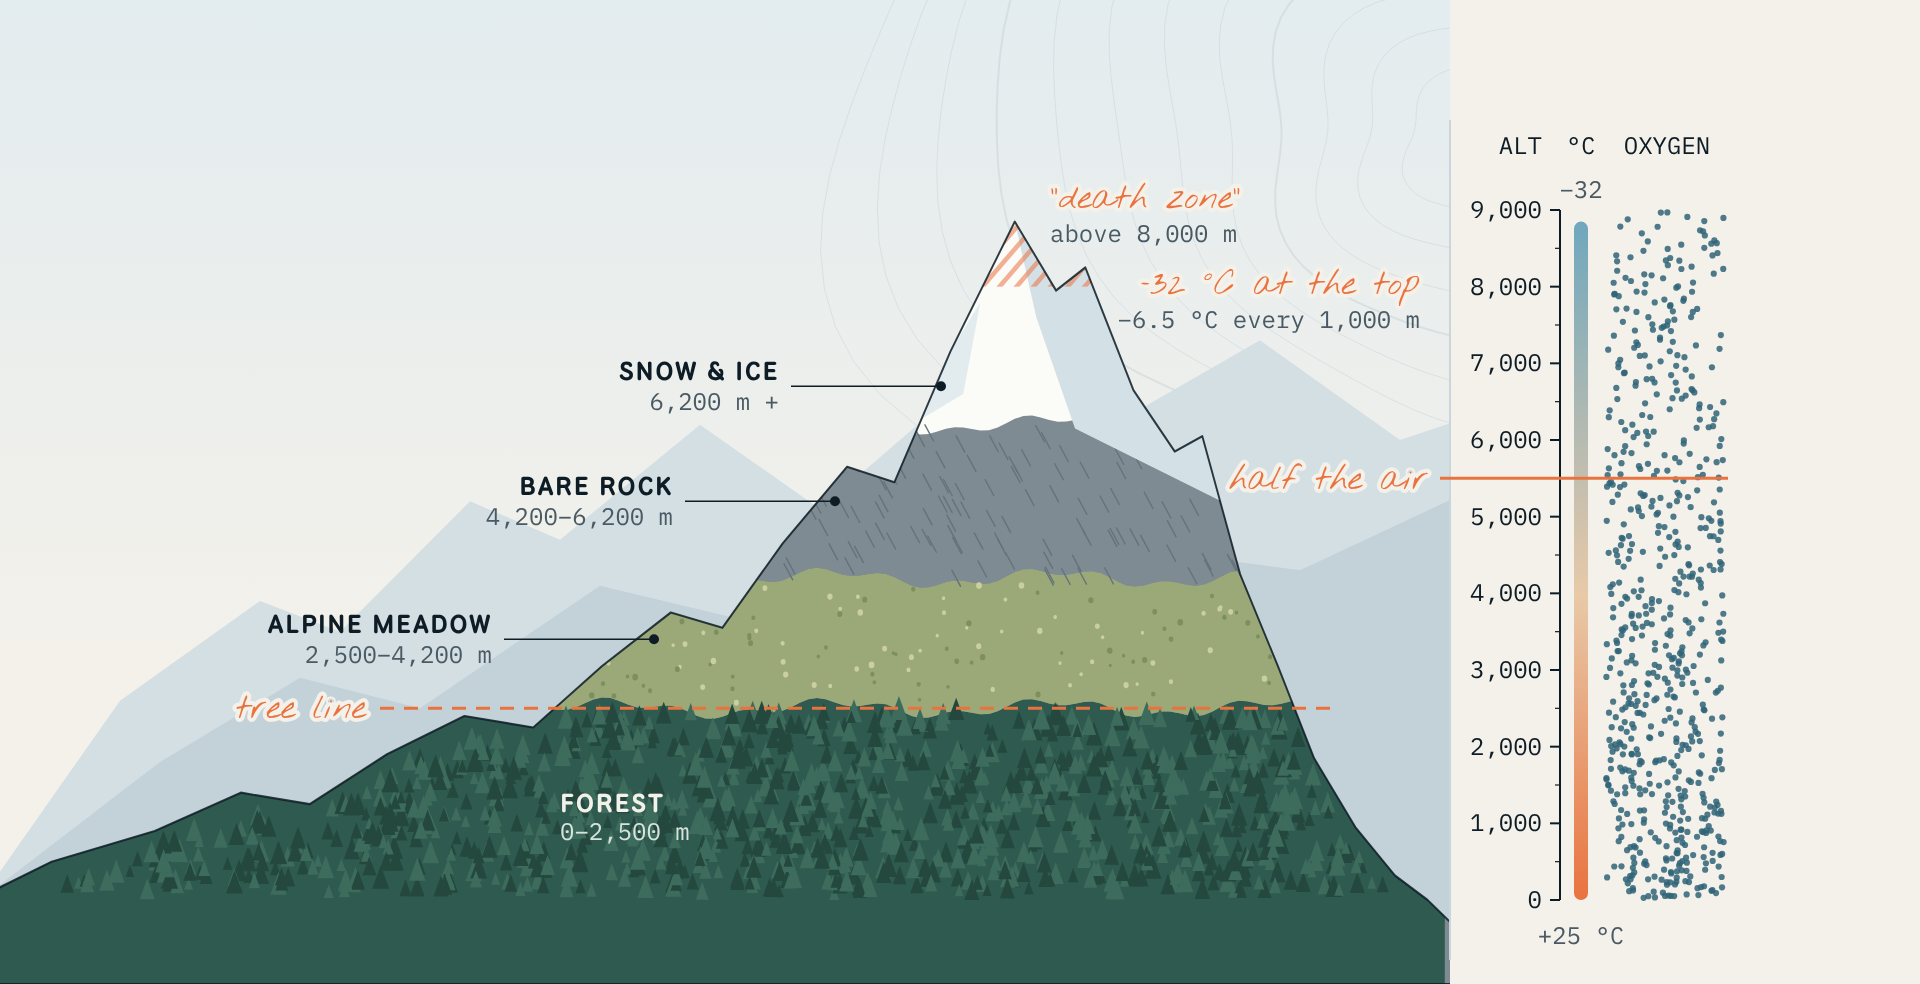
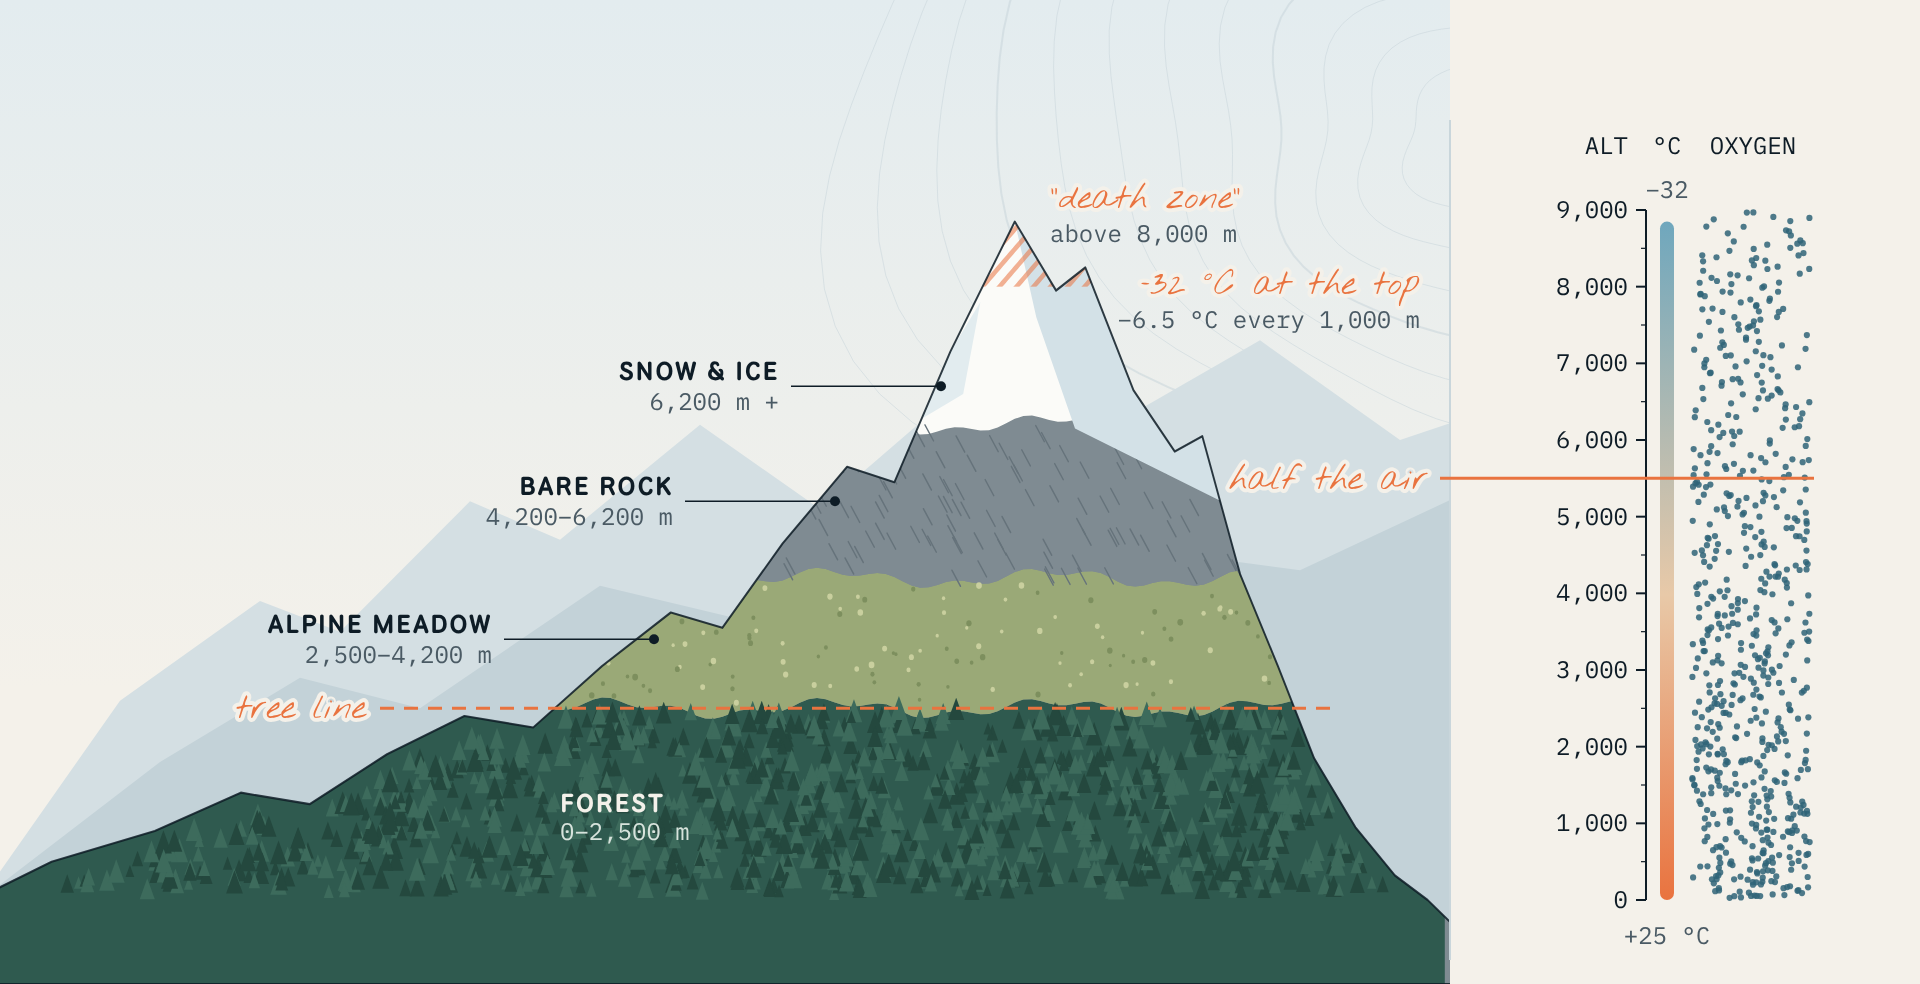
Center slide content vertically and center the altitude gauge
Claude-Session: https://claude.ai/code/session_01SRscrx7gRJ3TS5WmVXhRDc

Changed region(s): [[0.7812, 0.1829, 0.9375, 0.9146], [0.7812, 0.122, 0.9375, 0.1524], [0.8125, 0.9451, 0.875, 0.9756]]

diff --git a/deck/project/slides/where.html b/deck/project/slides/where.html
@@ -1,13 +1,13 @@
-<section id="where" data-transition="fade" style="background:#0e1c26;color:#eef2f1;font-family:'Barlow', Arial, sans-serif;padding:144px 192px 176px;display:flex;flex-direction:column;gap:12px">
+<section id="where" data-transition="fade" style="background:#0e1c26;color:#eef2f1;font-family:'Barlow', Arial, sans-serif;padding:112px 192px 208px;display:flex;flex-direction:column;gap:12px">
 <img src="/_blob/3e8221d59b24e82d4a2f260c20924182" alt="" style="position:absolute;left:0;top:0;width:1920px;height:984px;object-fit:cover;opacity:0.08">
-<img src="/_blob/3cc009201de9a105b8d38afb69dd0c79" alt="Snowy Himalayan peaks under a blue sky" style="position:absolute;left:192px;top:312px;width:366px;height:592px;object-fit:cover;border-radius:18px">
-<img src="/_blob/9dcb544614ce932dabfe6586796116ce" alt="Snowy peaks above a turquoise lake in the Cordillera Huayhuash, Peru" style="position:absolute;left:582px;top:312px;width:366px;height:592px;object-fit:cover;border-radius:18px">
-<img src="/_blob/86c8a2be26c6944d54eb79cfa28b9634" alt="Green alpine meadow, lake and rocky peaks in the Swiss Alps" style="position:absolute;left:972px;top:312px;width:366px;height:592px;object-fit:cover;border-radius:18px">
-<img src="/_blob/06269918b762f7f78946eb62354a13b3" alt="Moraine Lake reflecting rocky peaks, Canadian Rockies" style="position:absolute;left:1362px;top:312px;width:366px;height:592px;object-fit:cover;border-radius:18px">
-<div style="position:absolute;left:192px;top:312px;width:366px;height:592px;border-radius:18px;background:linear-gradient(180deg, rgba(14,28,38,0) 18%, rgba(14,28,38,0.8) 48%, rgba(14,28,38,0.97) 70%)"></div>
-<div style="position:absolute;left:582px;top:312px;width:366px;height:592px;border-radius:18px;background:linear-gradient(180deg, rgba(14,28,38,0) 18%, rgba(14,28,38,0.8) 48%, rgba(14,28,38,0.97) 70%)"></div>
-<div style="position:absolute;left:972px;top:312px;width:366px;height:592px;border-radius:18px;background:linear-gradient(180deg, rgba(14,28,38,0) 18%, rgba(14,28,38,0.8) 48%, rgba(14,28,38,0.97) 70%)"></div>
-<div style="position:absolute;left:1362px;top:312px;width:366px;height:592px;border-radius:18px;background:linear-gradient(180deg, rgba(14,28,38,0) 18%, rgba(14,28,38,0.8) 48%, rgba(14,28,38,0.97) 70%)"></div>
+<img src="/_blob/3cc009201de9a105b8d38afb69dd0c79" alt="Snowy Himalayan peaks under a blue sky" style="position:absolute;left:192px;top:280px;width:366px;height:592px;object-fit:cover;border-radius:18px">
+<img src="/_blob/9dcb544614ce932dabfe6586796116ce" alt="Snowy peaks above a turquoise lake in the Cordillera Huayhuash, Peru" style="position:absolute;left:582px;top:280px;width:366px;height:592px;object-fit:cover;border-radius:18px">
+<img src="/_blob/86c8a2be26c6944d54eb79cfa28b9634" alt="Green alpine meadow, lake and rocky peaks in the Swiss Alps" style="position:absolute;left:972px;top:280px;width:366px;height:592px;object-fit:cover;border-radius:18px">
+<img src="/_blob/06269918b762f7f78946eb62354a13b3" alt="Moraine Lake reflecting rocky peaks, Canadian Rockies" style="position:absolute;left:1362px;top:280px;width:366px;height:592px;object-fit:cover;border-radius:18px">
+<div style="position:absolute;left:192px;top:280px;width:366px;height:592px;border-radius:18px;background:linear-gradient(180deg, rgba(14,28,38,0) 18%, rgba(14,28,38,0.8) 48%, rgba(14,28,38,0.97) 70%)"></div>
+<div style="position:absolute;left:582px;top:280px;width:366px;height:592px;border-radius:18px;background:linear-gradient(180deg, rgba(14,28,38,0) 18%, rgba(14,28,38,0.8) 48%, rgba(14,28,38,0.97) 70%)"></div>
+<div style="position:absolute;left:972px;top:280px;width:366px;height:592px;border-radius:18px;background:linear-gradient(180deg, rgba(14,28,38,0) 18%, rgba(14,28,38,0.8) 48%, rgba(14,28,38,0.97) 70%)"></div>
+<div style="position:absolute;left:1362px;top:280px;width:366px;height:592px;border-radius:18px;background:linear-gradient(180deg, rgba(14,28,38,0) 18%, rgba(14,28,38,0.8) 48%, rgba(14,28,38,0.97) 70%)"></div>
 <p style="font-family:'IBM Plex Mono', 'Courier New', monospace;font-size:24px;letter-spacing:4px;color:#e9733f;text-transform:uppercase">Where</p>
 <h2 style="font-family:'National Park', 'Arial Narrow', sans-serif;font-size:72px;font-weight:700;line-height:1.08;text-transform:uppercase">Four great mountain ranges</h2>
 <div style="flex:1;display:flex;gap:24px;padding:24px 0px 0px 0px">

diff --git a/deck/design/art/habitat.html b/deck/design/art/habitat.html
@@ -70,22 +70,22 @@ const fy=Y(1150);t(560,fy,'Forest','lbl','#f4f1ea');t(560,fy+28,'0–2,500 m','m
 t(1050,Y(8849)-14,'“death zone”','hand',GLOW);t(1050,Y(8849)+20,'above 8,000 m','mono','#4a5a64');
 
 // gauges: altitude axis, temperature, oxygen dots
-const ax=1560;
+const ax=1646;
 el('line',{x1:ax,y1:Y(0),x2:ax,y2:Y(9000),stroke:INK,['stroke-width']:2});
 for(let a=0;a<=9000;a+=1000){const y=Y(a);el('line',{x1:ax-10,y1:y,x2:ax,y2:y,stroke:INK,['stroke-width']:2});t(ax-18,y+8,a.toLocaleString('en-US'),'mono',INK,'end')}
 for(let a=500;a<9000;a+=1000){const y=Y(a);el('line',{x1:ax-5,y1:y,x2:ax,y2:y,stroke:INK,['stroke-width']:1.2})}
 const tg=el('linearGradient',{id:'tg',x1:0,y1:1,x2:0,y2:0},defs);el('stop',{offset:'0',['stop-color']:GLOW},tg);el('stop',{offset:'.45',['stop-color']:'#e8c9a8'},tg);el('stop',{offset:'1',['stop-color']:'#6fa7bd'},tg);
-el('rect',{x:1574,y:Y(8849),width:14,height:Y(0)-Y(8849),rx:7,fill:'url(#tg)'});
+el('rect',{x:1660,y:Y(8849),width:14,height:Y(0)-Y(8849),rx:7,fill:'url(#tg)'});
 // oxygen: density of dots follows air pressure
-for(let a=0;a<9000;a+=60){const p=Math.exp(-a/8300),n=Math.round(p*7);for(let k=0;k<n;k++){const x=1606+rnd()*118,y=Y(a)-rnd()*60*(690/9000)*1;el('circle',{cx:x,cy:y,r:3.1,fill:'#2f6478',opacity:.85})}}
-t(1581,Y(9000)-56,'°C','mono',INK,'middle');t(1667,Y(9000)-56,'OXYGEN','mono',INK,'middle');t(1542,Y(9000)-56,'ALT','mono',INK,'end');
-t(1581,Y(0)+44,'+25 °C','mono','#4a5a64','middle');
+for(let a=0;a<9000;a+=60){const p=Math.exp(-a/8300),n=Math.round(p*7);for(let k=0;k<n;k++){const x=1692+rnd()*118,y=Y(a)-rnd()*60*(690/9000)*1;el('circle',{cx:x,cy:y,r:3.1,fill:'#2f6478',opacity:.85})}}
+t(1667,Y(9000)-56,'°C','mono',INK,'middle');t(1753,Y(9000)-56,'OXYGEN','mono',INK,'middle');t(1628,Y(9000)-56,'ALT','mono',INK,'end');
+t(1667,Y(0)+44,'+25 °C','mono','#4a5a64','middle');
 // handwritten readings
 t(1420,Y(7900),'−32 °C at the top','hand',GLOW,'end');
 t(1420,Y(7900)+34,'−6.5 °C every 1,000 m','mono','#4a5a64','end');
-t(1581,Y(8849)-24,'−32','mono','#4a5a64','middle');
+t(1667,Y(8849)-24,'−32','mono','#4a5a64','middle');
 // half oxygen marker
-const yh=Y(5500);el('line',{x1:1440,y1:yh,x2:1728,y2:yh,stroke:GLOW,['stroke-width']:3});
+const yh=Y(5500);el('line',{x1:1440,y1:yh,x2:1814,y2:yh,stroke:GLOW,['stroke-width']:3});
 t(1428,yh+11,'half the air','hand',GLOW,'end');
 </script>
 </body></html>

diff --git a/deck/project/slides/threats.html b/deck/project/slides/threats.html
@@ -1,10 +1,10 @@
-<section id="threats" data-transition="fade" style="background:#0e1c26;color:#eef2f1;font-family:'Barlow', Arial, sans-serif;padding:144px 192px 176px;display:flex;flex-direction:column;gap:12px">
+<section id="threats" data-transition="fade" style="background:#0e1c26;color:#eef2f1;font-family:'Barlow', Arial, sans-serif;padding:112px 192px 208px;display:flex;flex-direction:column;justify-content:center;gap:12px">
 <img src="/_blob/945b359164c9443d8336dda2beb0b1be" alt="The grey, rocky Ngozumpa Glacier next to the turquoise Gokyo Lake, Nepal" style="position:absolute;left:0;top:0;width:1920px;height:984px;object-fit:cover">
 <div style="position:absolute;left:0;top:0;width:1920px;height:984px;background:linear-gradient(90deg, rgba(14,28,38,0.97) 0%, rgba(14,28,38,0.93) 46%, rgba(14,28,38,0.35) 72%, rgba(14,28,38,0.1) 100%)"></div>
-<div style="width:808px;flex:1;display:flex;flex-direction:column;gap:12px">
+<div style="width:808px;display:flex;flex-direction:column;gap:12px">
 <p style="font-family:'IBM Plex Mono', 'Courier New', monospace;font-size:24px;letter-spacing:4px;color:#e9733f;text-transform:uppercase">Threats</p>
 <h2 style="font-family:'National Park', 'Arial Narrow', sans-serif;font-size:72px;font-weight:700;line-height:1.05;text-transform:uppercase">Why are they in danger?</h2>
-<div style="flex:1;display:flex;flex-direction:column;justify-content:center;gap:28px">
+<div style="display:flex;flex-direction:column;gap:28px;padding:28px 0px 0px 0px">
 <div style="display:flex;gap:24px">
 <p style="width:52px;font-family:'IBM Plex Mono', 'Courier New', monospace;font-size:24px;line-height:1.7;color:#e9733f">01</p>
 <div style="flex:1;display:flex;flex-direction:column;gap:4px">

diff --git a/deck/project/slides/habitat.html b/deck/project/slides/habitat.html
@@ -1,5 +1,5 @@
-<section id="habitat" data-transition="fade" style="background:#f4f1ea;color:#0e1c26;font-family:'Barlow', Arial, sans-serif;padding:144px 192px 176px;display:flex;flex-direction:column;gap:12px">
-<img src="/_blob/ae60d2ef522d94b2385d24fcaf0ab8fc" alt="Illustrated mountain cut into zones: forest up to 2,500 m, alpine meadow up to 4,200 m, bare rock up to 6,200 m and snow and ice above. A scale on the right shows the temperature falling from +25 °C to −32 °C and the dots of oxygen thinning out, with half the air left at 5,500 m." style="position:absolute;left:0;top:0;width:1920px;height:984px;object-fit:cover">
+<section id="habitat" data-transition="fade" style="background:#f4f1ea;color:#0e1c26;font-family:'Barlow', Arial, sans-serif;padding:112px 192px 208px;display:flex;flex-direction:column;gap:12px">
+<img src="/_blob/07ca1bd5c8e2e8c35c0c231b184f89a5" alt="Illustrated mountain cut into zones: forest up to 2,500 m, alpine meadow up to 4,200 m, bare rock up to 6,200 m and snow and ice above. A scale on the right shows the temperature falling from +25 °C to −32 °C and the dots of oxygen thinning out, with half the air left at 5,500 m." style="position:absolute;left:0;top:0;width:1920px;height:984px;object-fit:cover">
 <div style="width:760px;display:flex;flex-direction:column;gap:12px">
 <p style="font-family:'IBM Plex Mono', 'Courier New', monospace;font-size:24px;letter-spacing:4px;color:#b4501f;text-transform:uppercase">The habitat</p>
 <h2 style="font-family:'National Park', 'Arial Narrow', sans-serif;font-size:72px;font-weight:700;line-height:1.08;text-transform:uppercase">Life gets harder as you climb</h2>

diff --git a/deck/project/slides/foodchain.html b/deck/project/slides/foodchain.html
@@ -1,6 +1,6 @@
-<section id="foodchain" data-transition="fade" style="background:#f4f1ea;color:#0e1c26;font-family:'Barlow', Arial, sans-serif;padding:144px 192px 176px;display:flex;flex-direction:row;gap:12px">
+<section id="foodchain" data-transition="fade" style="background:#f4f1ea;color:#0e1c26;font-family:'Barlow', Arial, sans-serif;padding:112px 192px 208px;display:flex;flex-direction:row;gap:12px">
 <img src="/_blob/1b050502579447b7cb4673e2200c2d8f" alt="A snow leopard on its kill in the snow" style="position:absolute;left:0;top:0;width:820px;height:984px;object-fit:cover">
-<img src="/_blob/67f8f7ad596cc9259e8a0dc1391a88fd" alt="A food pyramid drawn as a mountain: plants at the wide base, herbivores in the middle and a few predators at the top. A dotted arrow shows scavengers like condors and vultures taking the leftovers back to the soil." style="position:absolute;left:900px;top:300px;width:828px;height:600px;object-fit:contain" data-build-in="fade">
+<img src="/_blob/67f8f7ad596cc9259e8a0dc1391a88fd" alt="A food pyramid drawn as a mountain: plants at the wide base, herbivores in the middle and a few predators at the top. A dotted arrow shows scavengers like condors and vultures taking the leftovers back to the soil." style="position:absolute;left:900px;top:268px;width:828px;height:600px;object-fit:contain" data-build-in="fade">
 <div style="position:absolute;left:0;top:704px;width:820px;height:280px;background:linear-gradient(180deg, rgba(14,28,38,0) 0%, rgba(14,28,38,0.8) 100%)"></div>
 <div style="width:708px"></div>
 <div style="flex:1;display:flex;flex-direction:column;gap:12px">

diff --git a/deck/project/slides/condor.html b/deck/project/slides/condor.html
@@ -1,4 +1,4 @@
-<section id="condor" data-transition="fade" style="background:#f4f1ea;color:#0e1c26;font-family:'Barlow', Arial, sans-serif;padding:144px 192px 176px;display:flex;flex-direction:column;gap:12px">
+<section id="condor" data-transition="fade" style="background:#f4f1ea;color:#0e1c26;font-family:'Barlow', Arial, sans-serif;padding:112px 192px 208px;display:flex;flex-direction:column;gap:12px">
 <img src="/_blob/d78d256c9588d55624a38fbf82c518d3" alt="An Andean condor with its wings spread on a snowy rock. A ruler above it marks a wingspan of up to 3.3 m; notes point to its bald head and sharp eyes and to its giant wings. Below: nature’s clean-up crew, it eats carrion (dead animals), which helps stop diseases." style="position:absolute;left:0;top:0;width:1920px;height:984px;object-fit:cover">
 <div style="width:400px;display:flex;flex-direction:column;gap:12px">
 <p style="font-family:'IBM Plex Mono', 'Courier New', monospace;font-size:24px;letter-spacing:4px;color:#b4501f;text-transform:uppercase">Animal 02</p>

diff --git a/deck/project/slides/thanks.html b/deck/project/slides/thanks.html
@@ -1,4 +1,4 @@
-<section id="thanks" data-transition="fade" style="background:#0e1c26;color:#eef2f1;font-family:'Barlow', Arial, sans-serif;padding:144px 192px 176px;display:flex;flex-direction:column;justify-content:end;gap:24px">
+<section id="thanks" data-transition="fade" style="background:#0e1c26;color:#eef2f1;font-family:'Barlow', Arial, sans-serif;padding:112px 192px 208px;display:flex;flex-direction:column;justify-content:end;gap:24px">
 <img src="/_blob/ff3db82f3b3429fe987ed849fda63274" alt="Mount Fitz Roy glowing orange at sunset above a lake, Patagonia" style="position:absolute;left:0;top:0;width:1920px;height:984px;object-fit:cover">
 <div style="position:absolute;left:0;top:0;width:1920px;height:984px;background:linear-gradient(180deg, rgba(14,28,38,0.05) 20%, rgba(14,28,38,0.78) 52%, #0e1c26 84%)"></div>
 <img src="/_blob/3e8221d59b24e82d4a2f260c20924182" alt="" style="position:absolute;left:0;top:0;width:1920px;height:984px;object-fit:cover;opacity:0.1">

diff --git a/deck/project/slides/cover.html b/deck/project/slides/cover.html
@@ -1,4 +1,4 @@
-<section id="cover" data-transition="fade" style="background:#0e1c26;color:#eef2f1;font-family:'Barlow', Arial, sans-serif;padding:144px 192px 176px;display:flex;flex-direction:column;justify-content:end;gap:20px">
+<section id="cover" data-transition="fade" style="background:#0e1c26;color:#eef2f1;font-family:'Barlow', Arial, sans-serif;padding:112px 192px 208px;display:flex;flex-direction:column;justify-content:end;gap:20px">
 <img src="/_blob/cf6575bcf1922b8ed47f60693612e22f" alt="Machapuchare peak glowing pink at sunrise, Himalayas, Nepal" style="position:absolute;left:0;top:0;width:1920px;height:984px;object-fit:cover">
 <div style="position:absolute;left:0;top:0;width:1920px;height:984px;background:linear-gradient(180deg, rgba(14,28,38,0) 32%, rgba(14,28,38,0.72) 62%, #0e1c26 100%)"></div>
 <img src="/_blob/3e8221d59b24e82d4a2f260c20924182" alt="" style="position:absolute;left:0;top:0;width:1920px;height:984px;object-fit:cover;opacity:0.1">

diff --git a/deck/project/slides/snowleopard.html b/deck/project/slides/snowleopard.html
@@ -1,4 +1,4 @@
-<section id="snowleopard" data-transition="fade" style="background:#0e1c26;color:#eef2f1;font-family:'Barlow', Arial, sans-serif;padding:144px 192px 176px;display:flex;flex-direction:column;gap:12px">
+<section id="snowleopard" data-transition="fade" style="background:#0e1c26;color:#eef2f1;font-family:'Barlow', Arial, sans-serif;padding:112px 192px 208px;display:flex;flex-direction:column;gap:12px">
 <img src="/_blob/4d00ec4dc3f89054b33be22092c7c423" alt="A snow leopard on a rock with five labelled adaptations: big nose and lungs, thick fur up to 12 cm, a spotted grey coat for camouflage, a tail about 1 m long, and wide snowshoe paws." style="position:absolute;left:0;top:0;width:1920px;height:984px;object-fit:cover">
 <div style="width:400px;display:flex;flex-direction:column;gap:12px">
 <p style="font-family:'IBM Plex Mono', 'Courier New', monospace;font-size:24px;letter-spacing:4px;color:#e9733f;text-transform:uppercase">Animal 01</p>

diff --git a/deck/project/slides/summit.html b/deck/project/slides/summit.html
@@ -1,4 +1,4 @@
-<section id="summit" data-transition="fade" style="background:#0e1c26;color:#eef2f1;font-family:'Barlow', Arial, sans-serif;padding:144px 192px 176px;display:flex;flex-direction:column;justify-content:space-between;gap:16px">
+<section id="summit" data-transition="fade" style="background:#0e1c26;color:#eef2f1;font-family:'Barlow', Arial, sans-serif;padding:112px 192px 208px;display:flex;flex-direction:column;justify-content:space-between;gap:16px">
 <img src="/_blob/d2769f4fbda0331ca64ea572b99a6d91" alt="An Andean condor flying past the icy spires of Cerro Torre, Patagonia" style="position:absolute;left:0;top:0;width:1920px;height:984px;object-fit:cover">
 <div style="position:absolute;left:0;top:0;width:1920px;height:984px;background:linear-gradient(180deg, rgba(14,28,38,0.88) 0%, rgba(14,28,38,0.3) 30%, rgba(14,28,38,0.2) 46%, rgba(14,28,38,0.9) 66%, #0e1c26 100%)"></div>
 <div style="display:flex;flex-direction:column;gap:12px">

diff --git a/deck/project/slides/wildlife.html b/deck/project/slides/wildlife.html
@@ -1,4 +1,4 @@
-<section id="wildlife" data-transition="fade" style="background:#0e1c26;color:#eef2f1;font-family:'Barlow', Arial, sans-serif;padding:144px 192px 176px;display:flex;flex-direction:column;gap:12px">
+<section id="wildlife" data-transition="fade" style="background:#0e1c26;color:#eef2f1;font-family:'Barlow', Arial, sans-serif;padding:112px 192px 208px;display:flex;flex-direction:column;gap:12px">
 <img src="/_blob/3e8221d59b24e82d4a2f260c20924182" alt="" style="position:absolute;left:0;top:0;width:1920px;height:984px;object-fit:cover;opacity:0.08">
 <p style="font-family:'IBM Plex Mono', 'Courier New', monospace;font-size:24px;letter-spacing:4px;color:#e9733f;text-transform:uppercase">Wildlife</p>
 <h2 style="font-family:'National Park', 'Arial Narrow', sans-serif;font-size:72px;font-weight:700;line-height:1.08;text-transform:uppercase">Who lives up there?</h2>

diff --git a/deck/project/slides/protect.html b/deck/project/slides/protect.html
@@ -1,4 +1,4 @@
-<section id="protect" data-transition="fade" style="background:#f4f1ea;color:#0e1c26;font-family:'Barlow', Arial, sans-serif;padding:144px 192px 176px;display:grid;grid-template-columns:448px 1fr;gap:64px">
+<section id="protect" data-transition="fade" style="background:#f4f1ea;color:#0e1c26;font-family:'Barlow', Arial, sans-serif;padding:112px 192px 208px;display:grid;grid-template-columns:448px 1fr;gap:64px">
 <img src="/_blob/5c4a9bfce88e3163283b1573ea2a8dd8" alt="" style="position:absolute;left:0;top:0;width:1920px;height:984px;object-fit:cover;opacity:0.07">
 <div style="display:flex;flex-direction:column;gap:12px">
 <p style="font-family:'IBM Plex Mono', 'Courier New', monospace;font-size:24px;letter-spacing:4px;color:#b4501f;text-transform:uppercase">Protection</p>
